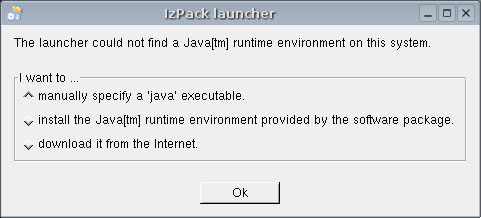
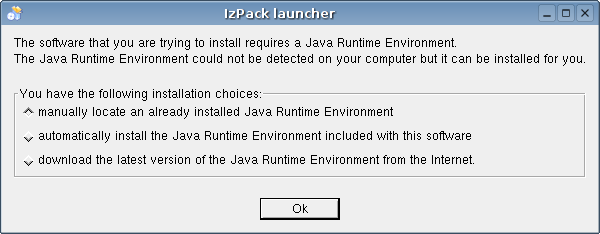
The messages displayed to the users have been enhanced thanks to Elmar's suggestions.
git-svn-id: https://svn.codehaus.org/izpack/izpack-launcher/trunk@23 7d736ef5-cfd4-0310-9c9a-b52d5c14b761

diff --git a/src/failuredialog.cpp b/src/failuredialog.cpp
@@ -46,8 +46,11 @@ FailureDialog::~FailureDialog()
 void FailureDialog::buildUI()
 {
   // Inits
-  wxString explanationMsg = _("The launcher could not find a Java[tm] runtime "
-                            "environment on this system.");
+  wxString explanationMsg = _("The software that you are trying to install "
+                              "requires a Java Runtime Environment.\n"
+                              "The Java Runtime Environment could not be "
+                              "detected on your computer but it can be "
+                              "installed for you.");
   sizer = new wxBoxSizer(wxVERTICAL);
 
   // Widgets
@@ -56,13 +59,16 @@ void FailureDialog::buildUI()
   sizer->Add(explanationText, 0, wxALIGN_LEFT | wxALL, 10);
 
   wxString rlabels[] = {
-    _("manually specify a 'java' executable."),
-    _("install the Java[tm] runtime environment provided by the software "
-    "package."),
-    _("download it from the Internet.")
+    _("manually locate an already installed Java Runtime Environment"),
+    _("automatically install the Java Runtime Environment included with this "
+      "software"),
+    _("download the latest version of the Java Runtime Environment from the "
+      "Internet.")
   };
-  optionsBox = new wxRadioBox(this, -1, _("I want to ..."), wxDefaultPosition,
-                              wxDefaultSize, 3, rlabels, 1, wxRA_SPECIFY_COLS);
+  optionsBox = new wxRadioBox(this, -1,
+                              _("You have the following installation choices:"),
+                              wxDefaultPosition, wxDefaultSize, 3, rlabels, 1,
+                              wxRA_SPECIFY_COLS);
   optionsBox->SetSelection(0);
   sizer->Add(optionsBox, 1, wxGROW | wxALL, 10);
 
